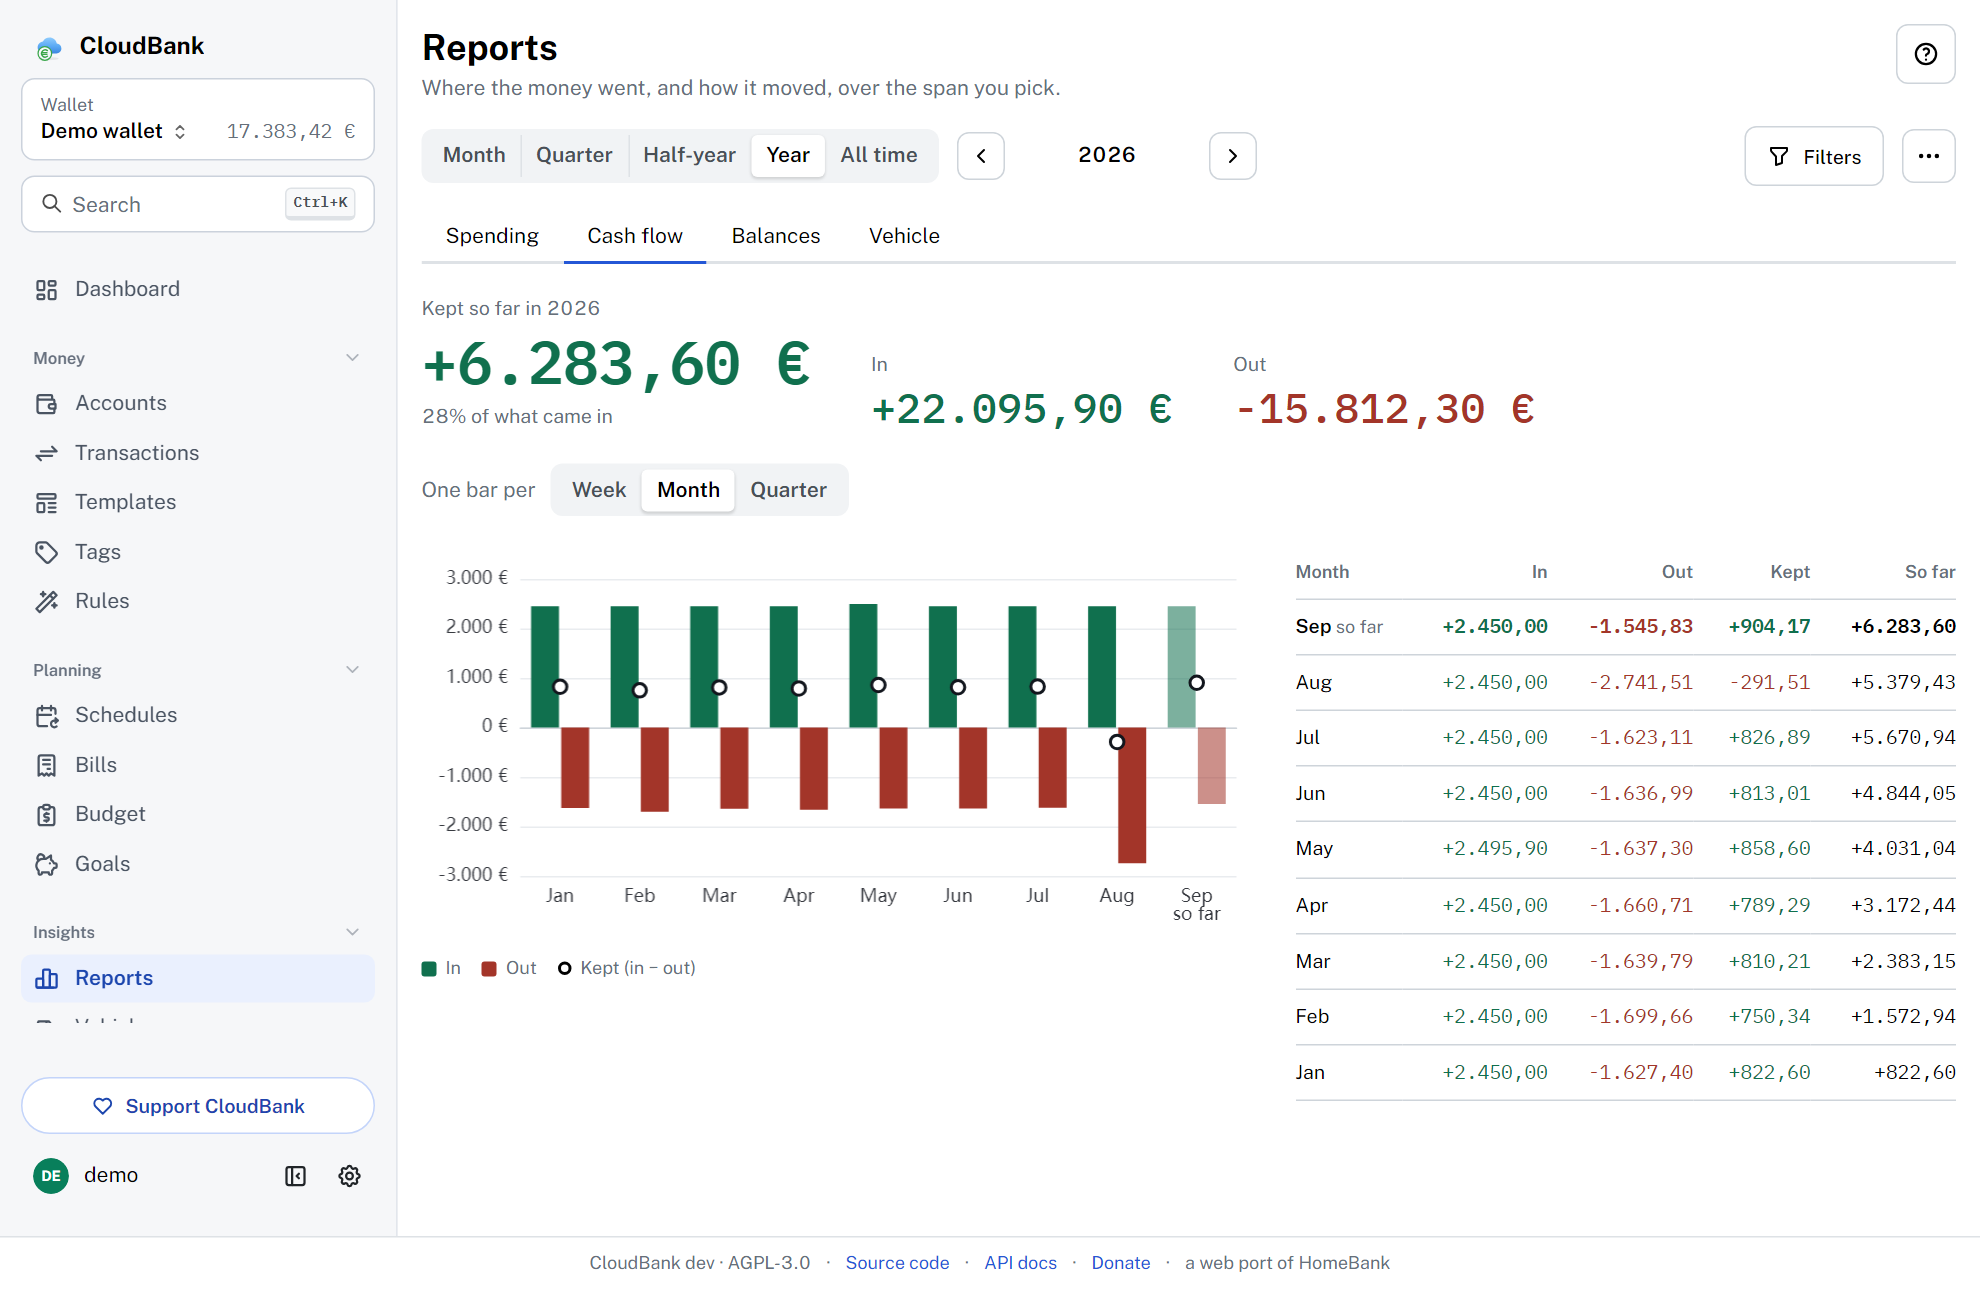
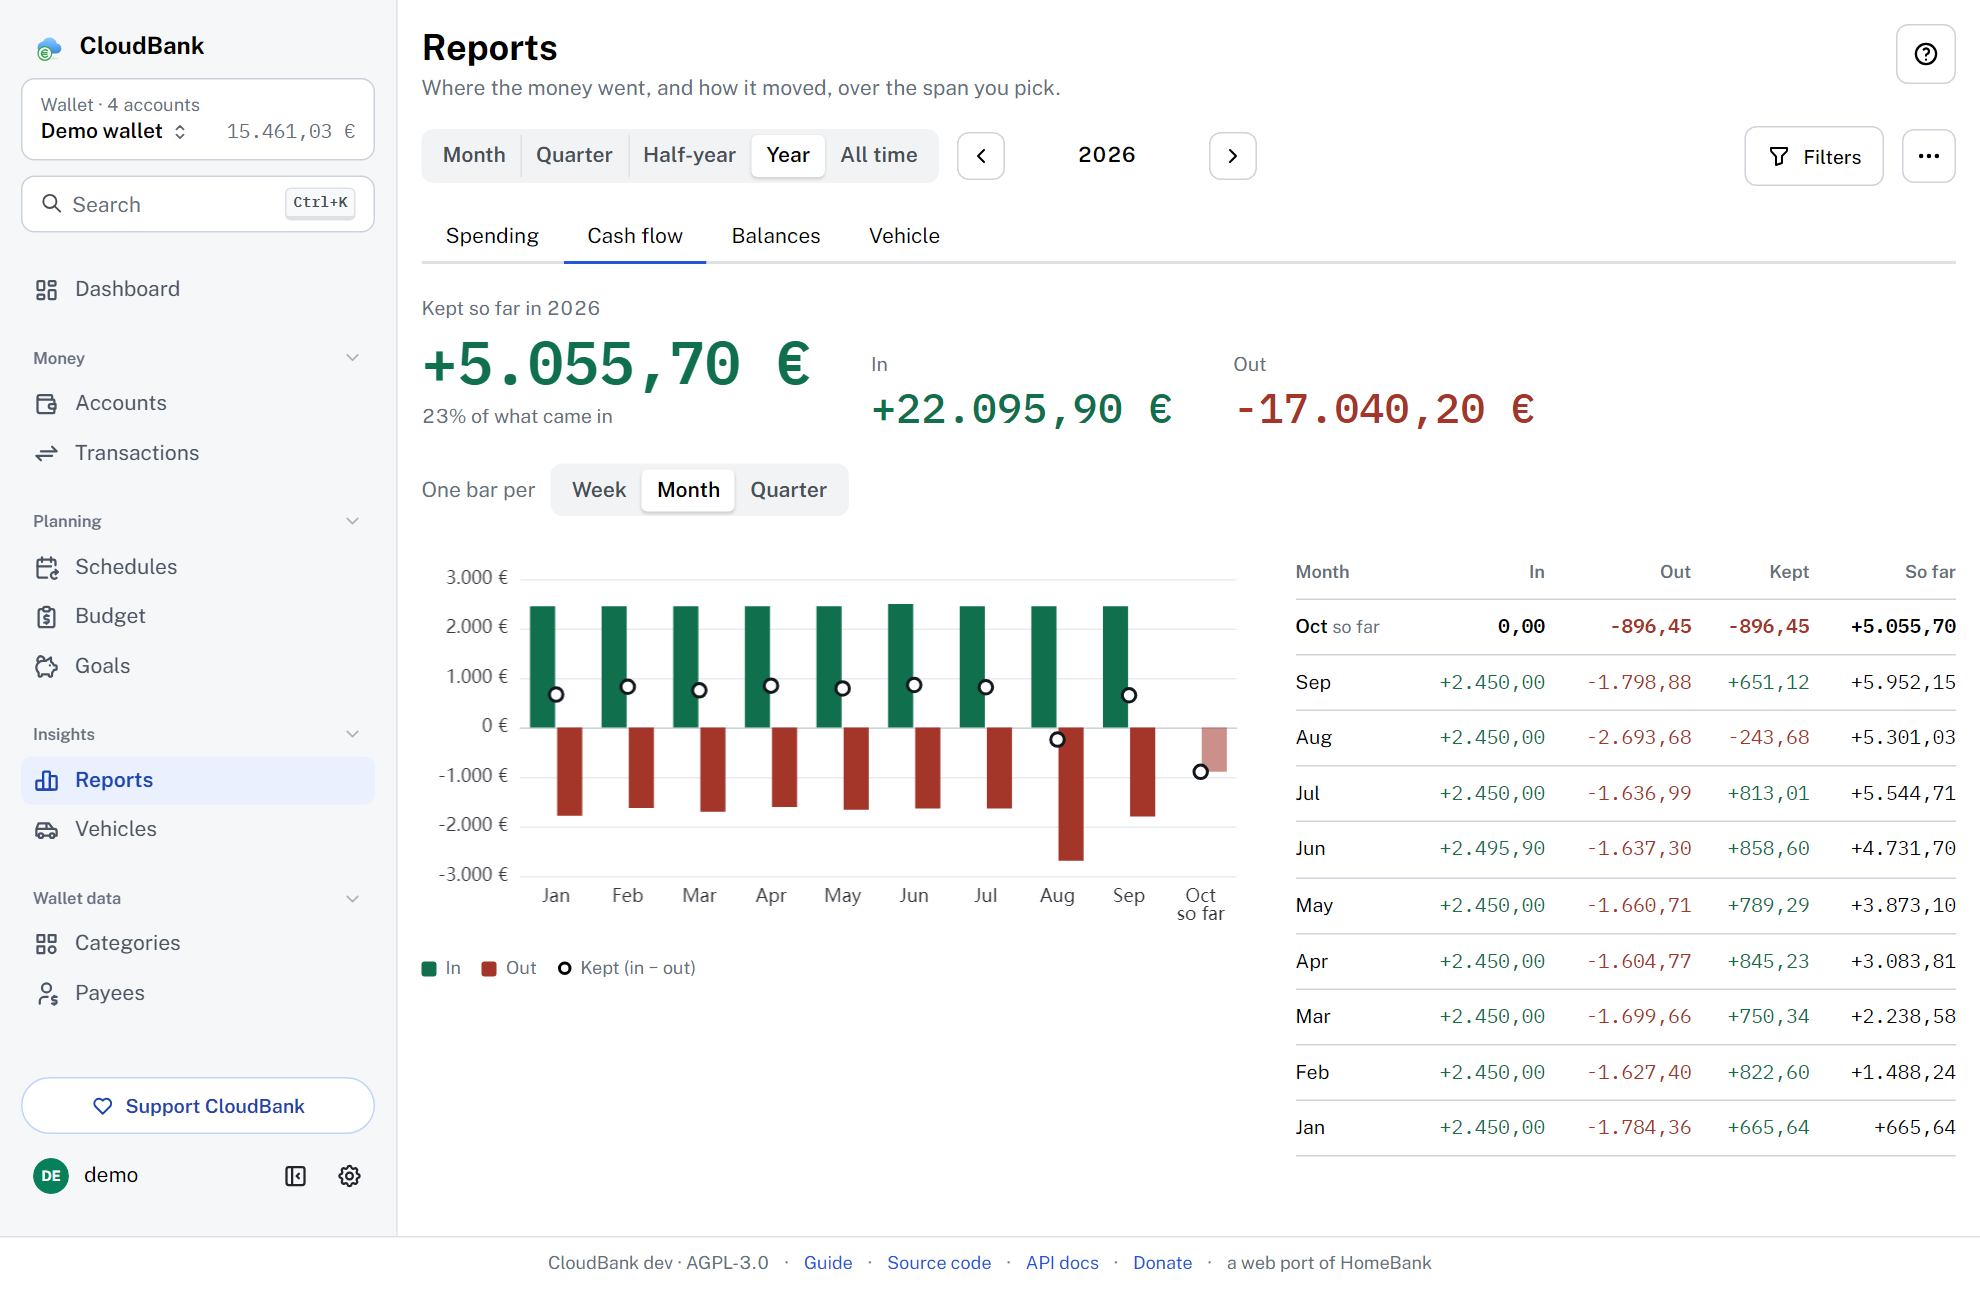
docs: catch the guides, README and screenshots up with 3.7.0
- README: the goals, vehicles and wallet-list pages as they are now, the
  totals that say what they add up, the two update notices, and the PWA
  section's update flow; the gallery gains Budget and Categories.
- docs/pages.md: the register's filters live in their panel (count and a red
  x on the button, chips at the top of the panel); Settings > About carries
  the update check for admins.
- The screenshots are retaken from the demo's data; screenshots.mjs also
  takes the Budget page and a category open in its panel.

Refs #588

diff --git a/README.md b/README.md
@@ -62,6 +62,10 @@ CloudBank is an **independent, clean-room reimplementation**. It does not copy o
 | :------------------------------------------------------: | :---------------------------------------------------------: |
 | ![Schedules calendar](docs/img/schedules.png)            | ![Bank-sync review](docs/img/review.png)                    |
 
+|      Budget — planned against spent, the answer first      |      Categories — every list edited in a panel beside it      |
+| :--------------------------------------------------------: | :----------------------------------------------------------: |
+| ![Budget](docs/img/budget.png)                              | ![Categories](docs/img/categories.png)                        |
+
 |                 Interactive reports                 |            Appearance — theme, accent, sidebar            |
 | :-------------------------------------------------: | :------------------------------------------------: |
 | ![Reports](docs/img/reports.png)                    | ![Settings](docs/img/settings.png)                 |
@@ -80,12 +84,15 @@ CloudBank is an **independent, clean-room reimplementation**. It does not copy o
 - **Entering a transaction** happens in a sheet beside the ledger, so the rows and the running balance stay in view. You choose which fields it shows and which wait under **More details**, and **Save and keep** carries the fields over to the next entry.
 - **Scheduled transactions** with automatic posting (optionally **pre-registering up to 3 months ahead**, HomeBank style), a **per-week/month/year income & expense summary**, the recurring **amount** shown in the schedules grid, **templates** (a dedicated management area, and offered when entering a transaction), and **assignment rules** for auto-categorization.
 - **Budgets** and **reports** that answer first: where the money went, what came in and went out, what your accounts hold and will hold with what is scheduled, and what a car costs — for any month, quarter or year, with saved views and CSV/PNG downloads.
-- **Savings goals** — manual piggy-bank goals with contribute / withdraw, a progress bar and an optional target date (included in wallet backup/restore).
+- **Savings goals** — what you have set aside, what to put aside each month to meet every date, and what is free to spend once it is set aside; put money in or take it out, and close a goal, reached or given up on, into a history you can reopen (included in wallet backup/restore).
+- **Vehicles** — what each car, motorbike or van costs to run over the last year: fuel, kilometres, cost per kilometre and consumption, from the fuel payments linked to it (HomeBank's `d=` / `v=` memo readings), with a fill-by-fill report.
+- **The wallet's lists** — categories, payees, tags, rules, templates and currencies each get a page of their own: what every entry did over the last 12 months (amounts, counts, the category a payee usually gets, how many transactions a rule matches today) and a panel beside the list to edit it, with merge and delete where they make sense.
 - **A calendar of what comes round** — the month's bills and income on the day each falls, marked **not registered**, **registered**, **cleared**, **reconciled** or **overdue** (occurrences registered months ahead land in their own month), with what is still to pay, a **Needs you** column to register or skip in one click, and a sheet to change a bill's amount before registering it. A registered one opens the register on its row, to reconcile it.
 - **Import**: HomeBank `.xhb`, QIF, OFX/QFX, CSV, **ISO 20022 CAMT.053** — with an import assistant ([how to import](docs/import.md)). **Export**: HomeBank `.xhb`, QIF, CSV.
 - **Automatic bank sync** — pull new transactions straight from your bank, run through your assignment rules and **reconciled against what you already have**: a bank row that matches an existing manual or scheduled transaction (amount + nearby date) is **merged** into it instead of duplicated, imported with the right status (booked → reconciled, pending → cleared) and a sensible default payment mode. Three providers, all **bring-your-own-credentials** so CloudBank never sees your bank login: **[SimpleFIN](https://www.simplefin.org/)** (worldwide; a ~$15/year SimpleFIN Bridge subscription) and **[Enable Banking](https://enablebanking.com/)** (EU/EEA + UK via PSD2 — a free sandbox to test, your own production application for real accounts). Plus **[Pluggy](https://pluggy.ai/)** (Latin America — free for personal use via [Meu Pluggy](https://meu.pluggy.ai), where you link the banks and CloudBank just reads them). **Pluggy is experimental and needs real-world testing** — it follows the published API but has not been run against a live Latin American bank by the maintainers, so if you use it, please [open an issue](https://github.com/easly1989/cloudbank/issues/new) with anything that looks wrong, however small. A **personal (restricted)** Enable Banking production app can only sync accounts you **link** to it in its panel — the [bank-sync guide](docs/bank-sync.md) walks through it.
 - **Review** — lists imported transactions still **needing a category** (set it inline) and finds **possible duplicates** that slipped through, with per-pair **merge**, edit, delete, or **"not a duplicate"** (remembered, so it isn't shown again). An account with something to review says so in its register ("3 to review"), and the button opens Review on that account; a linked account also shows when it last synced, with a **Sync** button. The connections themselves are set up in **Settings → Bank sync & AI**.
 - **Multi-currency** with manual and online (ECB / frankfurter.app) exchange rates.
+- **Totals that say what they add up** — the balance beside the wallet and at the head of the dashboard names how many accounts it sums ("4 of 6 accounts" when some are closed or kept out of the totals) and opens them one by one.
 - Multi-user (managed by the admin from **Settings → People**; each user changes their own password), responsive UI, English and Italian.
 
 ### Make it yours
@@ -105,6 +112,7 @@ CloudBank is an **independent, clean-room reimplementation**. It does not copy o
 - **Installable PWA** — a web-app manifest, icons and an offline app shell, so CloudBank installs to your phone's home screen or your desktop.
 - **Web push notifications** — opt-in browser push for schedule / bill due reminders.
 - **Encrypted secrets at rest** — set `CB_SECRET_KEY` to encrypt bank credentials, AI keys and other secrets in the database (see [Configuration](#configuration)).
+- **Told when to update** — an open page offers a new build of the app instead of swapping it in under you, and admins are told when a newer CloudBank is published, with the steps to update ([turn it off](docs/backup.md#upgrading) if you prefer).
 
 ### Optional AI (bring-your-own-key)
 
@@ -168,8 +176,10 @@ To install, open your CloudBank URL in a browser and:
 - **Android (Chrome)** — menu → **Add to Home screen / Install app**.
 - **iOS/iPadOS (Safari)** — **Share** → **Add to Home Screen**.
 
-It then launches in its own window like a native app, and updates itself to the
-latest version on the next launch after you deploy a new image.
+It then launches in its own window like a native app. After you deploy a new
+image, an open app says **A new version of CloudBank is ready** and switches
+when you choose **Update**, so nothing you are typing is lost; closed and
+opened again, it starts on the new version.
 
 > **Requires HTTPS.** Browsers only register a service worker and offer
 > installation over a **secure context** — i.e. HTTPS (plain `http://localhost` is

diff --git a/docs/pages.md b/docs/pages.md
@@ -85,15 +85,17 @@ switches between them.
   category, payee, payment mode, tags or status on all of them. **Delete**
   removes them.
 - **Filters.**
-  - The filter button narrows the register by:
+  - The **Filters** button opens a panel beside the register (a sheet on a
+    phone) that narrows it by:
     - dates and amounts;
     - payee, category and tags;
     - text;
     - status, or uncategorised only;
     - transfers;
     - whether future rows show.
-  - Active filters show as chips you can remove one by one. On a phone, the
-    button shows how many are on.
+  - The button shows how many filters are on, and its red **×** clears them
+    all. At the top of the panel, each active filter is a chip you can remove
+    on its own.
 - **Columns.** The columns button chooses which columns show. Drag a column's
   edge to resize it. CloudBank remembers your choice.
 - **Privacy.** The eye button hides names and amounts, for when someone is
@@ -433,4 +435,4 @@ The gear at the foot of the sidebar opens Settings. Its sections:
 | **Bank sync & AI** | Bank connections ([Automatic bank sync](bank-sync.md)) and the optional AI category suggestions |
 | **Import & export** | Imports ([Importing transactions](import.md)), exports, backups and a database check |
 | **People** | Administrators only: the people who can sign in |
-| **About** | The version, the licence and the source code |
+| **About** | The version, the licence and the source code; for administrators, whether a newer CloudBank is out and the switch for the daily check ([Upgrading](backup.md#upgrading)) |
